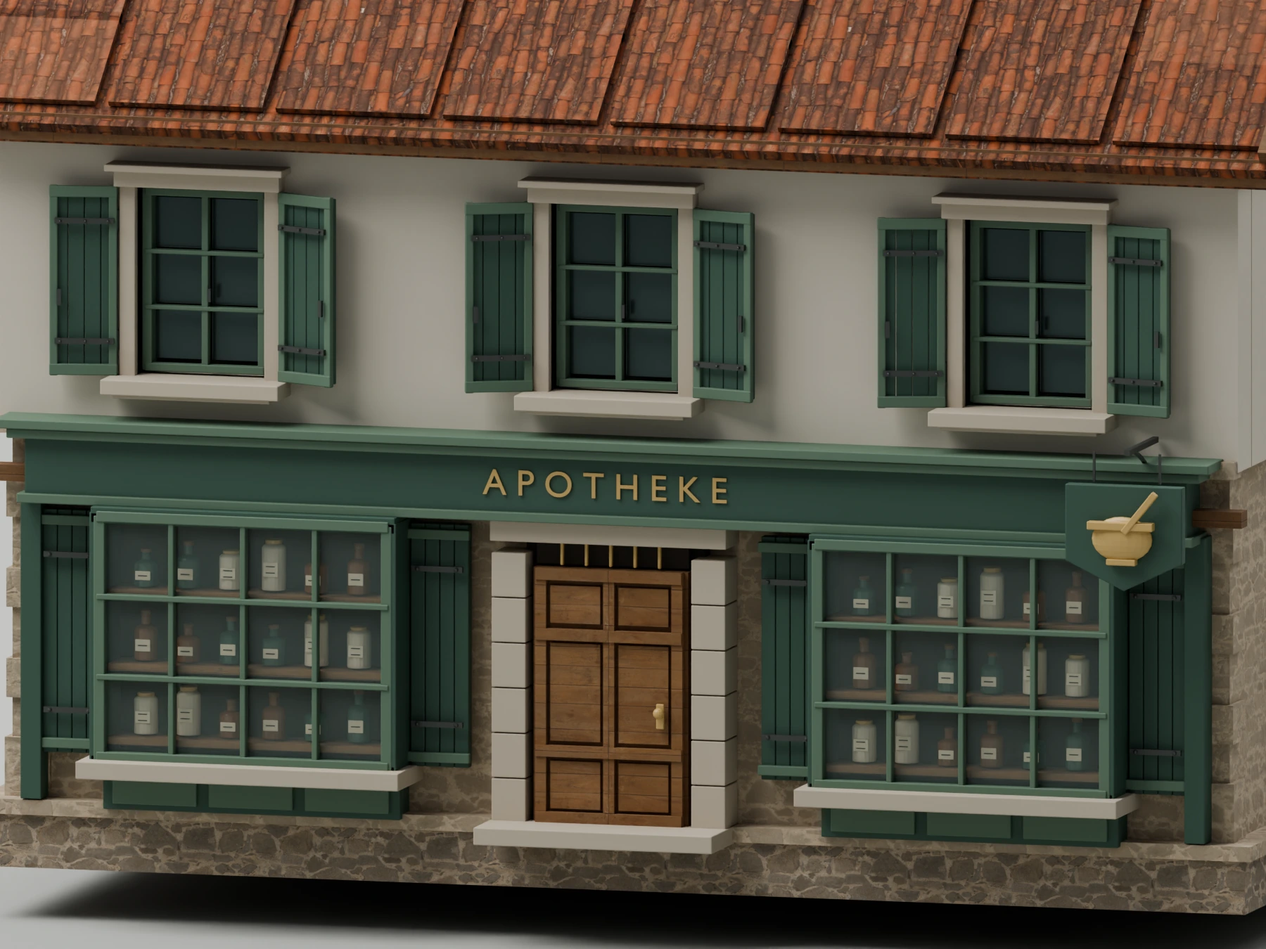
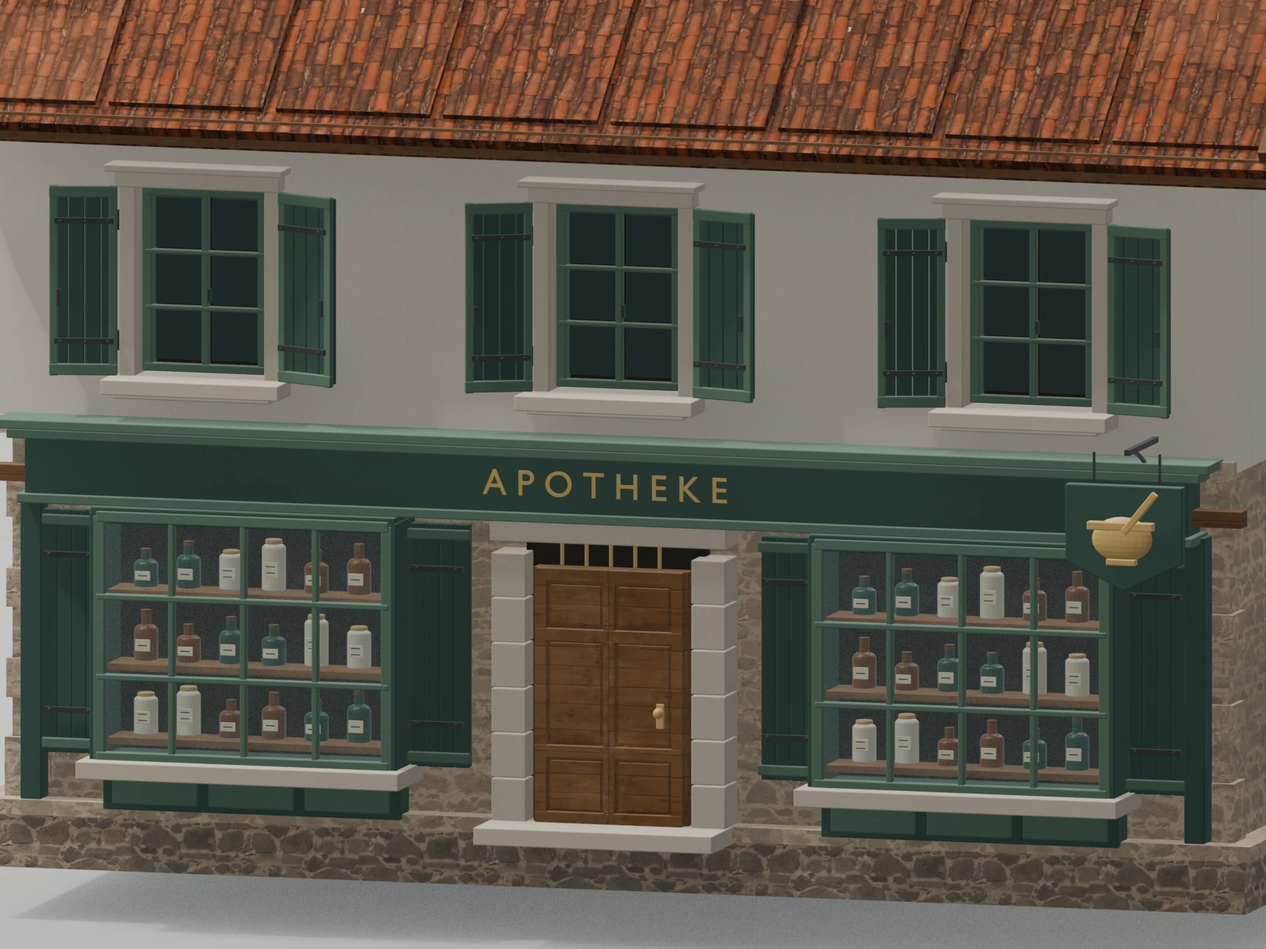
Upgrade windows across the town building showcase

diff --git a/site/model-closeups.html b/site/model-closeups.html
@@ -330,33 +330,33 @@ footer a{color:var(--gold)}
   </a>
   <div class="caption"><div class="eyebrow">Town interiors</div><h3>Warehouse Ground</h3><p>Close-up studio render of the exported Warehouse Ground model.</p><span class="credit">Big Sim model · see CREDITS.md for source notes</span><code class="source">art/city_buildings/interiors/warehouse_ground.glb</code></div>
 </article><article class="card">
-  <a class="image" href="images/gallery/model-closeup-art-city-buildings-models-apothecary.webp?v=apothecary-upper-20261024" aria-label="Open full size image: Apothecary">
-    <img src="images/gallery/model-closeup-art-city-buildings-models-apothecary.webp?v=apothecary-upper-20261024" alt="Apothecary — Close-up studio render of the exported Apothecary model." loading="lazy">
+  <a class="image" href="images/gallery/model-closeup-art-city-buildings-models-apothecary.webp?v=town-windows-20261024" aria-label="Open full size image: Apothecary">
+    <img src="images/gallery/model-closeup-art-city-buildings-models-apothecary.webp?v=town-windows-20261024" alt="Apothecary — Close-up studio render of the exported Apothecary model." loading="lazy">
   </a>
   <div class="caption"><div class="eyebrow">Town exteriors</div><h3>Apothecary</h3><p>Close-up studio render of the exported Apothecary model.</p><span class="credit">Big Sim model · see CREDITS.md for source notes</span><code class="source">art/city_buildings/models/apothecary.glb</code></div>
 </article><article class="card">
-  <a class="image" href="images/gallery/model-closeup-art-city-buildings-models-bakers-shop.webp" aria-label="Open full size image: Bakers Shop">
-    <img src="images/gallery/model-closeup-art-city-buildings-models-bakers-shop.webp" alt="Bakers Shop — Close-up studio render of the exported Bakers Shop model." loading="lazy">
+  <a class="image" href="images/gallery/model-closeup-art-city-buildings-models-bakers-shop.webp?v=town-windows-20261024" aria-label="Open full size image: Bakers Shop">
+    <img src="images/gallery/model-closeup-art-city-buildings-models-bakers-shop.webp?v=town-windows-20261024" alt="Bakers Shop — Close-up studio render of the exported Bakers Shop model." loading="lazy">
   </a>
   <div class="caption"><div class="eyebrow">Town exteriors</div><h3>Bakers Shop</h3><p>Close-up studio render of the exported Bakers Shop model.</p><span class="credit">Big Sim model · see CREDITS.md for source notes</span><code class="source">art/city_buildings/models/bakers_shop.glb</code></div>
 </article><article class="card">
-  <a class="image" href="images/gallery/model-closeup-art-city-buildings-models-chapel.webp" aria-label="Open full size image: Chapel">
-    <img src="images/gallery/model-closeup-art-city-buildings-models-chapel.webp" alt="Chapel — Close-up studio render of the exported Chapel model." loading="lazy">
+  <a class="image" href="images/gallery/model-closeup-art-city-buildings-models-chapel.webp?v=town-windows-20261024" aria-label="Open full size image: Chapel">
+    <img src="images/gallery/model-closeup-art-city-buildings-models-chapel.webp?v=town-windows-20261024" alt="Chapel — Close-up studio render of the exported Chapel model." loading="lazy">
   </a>
   <div class="caption"><div class="eyebrow">Town exteriors</div><h3>Chapel</h3><p>Close-up studio render of the exported Chapel model.</p><span class="credit">Big Sim model · see CREDITS.md for source notes</span><code class="source">art/city_buildings/models/chapel.glb</code></div>
 </article><article class="card">
-  <a class="image" href="images/gallery/model-closeup-art-city-buildings-models-cloth-merchants-house.webp" aria-label="Open full size image: Cloth Merchants House">
-    <img src="images/gallery/model-closeup-art-city-buildings-models-cloth-merchants-house.webp" alt="Cloth Merchants House — Close-up studio render of the exported Cloth Merchants House model." loading="lazy">
+  <a class="image" href="images/gallery/model-closeup-art-city-buildings-models-cloth-merchants-house.webp?v=town-windows-20261024" aria-label="Open full size image: Cloth Merchants House">
+    <img src="images/gallery/model-closeup-art-city-buildings-models-cloth-merchants-house.webp?v=town-windows-20261024" alt="Cloth Merchants House — Close-up studio render of the exported Cloth Merchants House model." loading="lazy">
   </a>
   <div class="caption"><div class="eyebrow">Town exteriors</div><h3>Cloth Merchants House</h3><p>Close-up studio render of the exported Cloth Merchants House model.</p><span class="credit">Big Sim model · see CREDITS.md for source notes</span><code class="source">art/city_buildings/models/cloth_merchants_house.glb</code></div>
 </article><article class="card">
-  <a class="image" href="images/gallery/model-closeup-art-city-buildings-models-cottage.webp" aria-label="Open full size image: Cottage">
-    <img src="images/gallery/model-closeup-art-city-buildings-models-cottage.webp" alt="Cottage — Close-up studio render of the exported Cottage model." loading="lazy">
+  <a class="image" href="images/gallery/model-closeup-art-city-buildings-models-cottage.webp?v=town-windows-20261024" aria-label="Open full size image: Cottage">
+    <img src="images/gallery/model-closeup-art-city-buildings-models-cottage.webp?v=town-windows-20261024" alt="Cottage — Close-up studio render of the exported Cottage model." loading="lazy">
   </a>
   <div class="caption"><div class="eyebrow">Town exteriors</div><h3>Cottage</h3><p>Close-up studio render of the exported Cottage model.</p><span class="credit">Big Sim model · see CREDITS.md for source notes</span><code class="source">art/city_buildings/models/cottage.glb</code></div>
 </article><article class="card">
-  <a class="image" href="images/gallery/model-closeup-art-city-buildings-models-granary.webp" aria-label="Open full size image: Granary">
-    <img src="images/gallery/model-closeup-art-city-buildings-models-granary.webp" alt="Granary — Close-up studio render of the exported Granary model." loading="lazy">
+  <a class="image" href="images/gallery/model-closeup-art-city-buildings-models-granary.webp?v=town-windows-20261024" aria-label="Open full size image: Granary">
+    <img src="images/gallery/model-closeup-art-city-buildings-models-granary.webp?v=town-windows-20261024" alt="Granary — Close-up studio render of the exported Granary model." loading="lazy">
   </a>
   <div class="caption"><div class="eyebrow">Town exteriors</div><h3>Granary</h3><p>Close-up studio render of the exported Granary model.</p><span class="credit">Big Sim model · see CREDITS.md for source notes</span><code class="source">art/city_buildings/models/granary.glb</code></div>
 </article><article class="card">
@@ -365,13 +365,13 @@ footer a{color:var(--gold)}
   </a>
   <div class="caption"><div class="eyebrow">Town exteriors</div><h3>Hercules Fountain</h3><p>Close-up studio render of the exported Hercules Fountain model.</p><span class="credit">Big Sim model · see CREDITS.md for source notes</span><code class="source">art/city_buildings/models/hercules_fountain.glb</code></div>
 </article><article class="card">
-  <a class="image" href="images/gallery/model-closeup-art-city-buildings-models-inn.webp" aria-label="Open full size image: Inn">
-    <img src="images/gallery/model-closeup-art-city-buildings-models-inn.webp" alt="Inn — Close-up studio render of the exported Inn model." loading="lazy">
+  <a class="image" href="images/gallery/model-closeup-art-city-buildings-models-inn.webp?v=town-windows-20261024" aria-label="Open full size image: Inn">
+    <img src="images/gallery/model-closeup-art-city-buildings-models-inn.webp?v=town-windows-20261024" alt="Inn — Close-up studio render of the exported Inn model." loading="lazy">
   </a>
   <div class="caption"><div class="eyebrow">Town exteriors</div><h3>Inn</h3><p>Close-up studio render of the exported Inn model.</p><span class="credit">Big Sim model · see CREDITS.md for source notes</span><code class="source">art/city_buildings/models/inn.glb</code></div>
 </article><article class="card">
-  <a class="image" href="images/gallery/model-closeup-art-city-buildings-models-merchant-house.webp" aria-label="Open full size image: Merchant House">
-    <img src="images/gallery/model-closeup-art-city-buildings-models-merchant-house.webp" alt="Merchant House — Close-up studio render of the exported Merchant House model." loading="lazy">
+  <a class="image" href="images/gallery/model-closeup-art-city-buildings-models-merchant-house.webp?v=town-windows-20261024" aria-label="Open full size image: Merchant House">
+    <img src="images/gallery/model-closeup-art-city-buildings-models-merchant-house.webp?v=town-windows-20261024" alt="Merchant House — Close-up studio render of the exported Merchant House model." loading="lazy">
   </a>
   <div class="caption"><div class="eyebrow">Town exteriors</div><h3>Merchant House</h3><p>Close-up studio render of the exported Merchant House model.</p><span class="credit">Big Sim model · see CREDITS.md for source notes</span><code class="source">art/city_buildings/models/merchant_house.glb</code></div>
 </article><article class="card">
@@ -380,33 +380,33 @@ footer a{color:var(--gold)}
   </a>
   <div class="caption"><div class="eyebrow">Town exteriors</div><h3>Oil Street Lantern</h3><p>Close-up studio render of the exported Oil Street Lantern model.</p><span class="credit">Big Sim model · see CREDITS.md for source notes</span><code class="source">art/city_buildings/models/oil_street_lantern.glb</code></div>
 </article><article class="card">
-  <a class="image" href="images/gallery/model-closeup-art-city-buildings-models-row-house.webp" aria-label="Open full size image: Row House">
-    <img src="images/gallery/model-closeup-art-city-buildings-models-row-house.webp" alt="Row House — Close-up studio render of the exported Row House model." loading="lazy">
+  <a class="image" href="images/gallery/model-closeup-art-city-buildings-models-row-house.webp?v=town-windows-20261024" aria-label="Open full size image: Row House">
+    <img src="images/gallery/model-closeup-art-city-buildings-models-row-house.webp?v=town-windows-20261024" alt="Row House — Close-up studio render of the exported Row House model." loading="lazy">
   </a>
   <div class="caption"><div class="eyebrow">Town exteriors</div><h3>Row House</h3><p>Close-up studio render of the exported Row House model.</p><span class="credit">Big Sim model · see CREDITS.md for source notes</span><code class="source">art/city_buildings/models/row_house.glb</code></div>
 </article><article class="card">
-  <a class="image" href="images/gallery/model-closeup-art-city-buildings-models-row-house-west-variant.webp" aria-label="Open full size image: Row House West Variant">
-    <img src="images/gallery/model-closeup-art-city-buildings-models-row-house-west-variant.webp" alt="Row House West Variant — Close-up studio render of the exported Row House West Variant model." loading="lazy">
+  <a class="image" href="images/gallery/model-closeup-art-city-buildings-models-row-house-west-variant.webp?v=town-windows-20261024" aria-label="Open full size image: Row House West Variant">
+    <img src="images/gallery/model-closeup-art-city-buildings-models-row-house-west-variant.webp?v=town-windows-20261024" alt="Row House West Variant — Close-up studio render of the exported Row House West Variant model." loading="lazy">
   </a>
   <div class="caption"><div class="eyebrow">Town exteriors</div><h3>Row House West Variant</h3><p>Close-up studio render of the exported Row House West Variant model.</p><span class="credit">Big Sim model · see CREDITS.md for source notes</span><code class="source">art/city_buildings/models/row_house_west_variant.glb</code></div>
 </article><article class="card">
-  <a class="image" href="images/gallery/model-closeup-art-city-buildings-models-smithy.webp" aria-label="Open full size image: Smithy">
-    <img src="images/gallery/model-closeup-art-city-buildings-models-smithy.webp" alt="Smithy — Close-up studio render of the exported Smithy model." loading="lazy">
+  <a class="image" href="images/gallery/model-closeup-art-city-buildings-models-smithy.webp?v=town-windows-20261024" aria-label="Open full size image: Smithy">
+    <img src="images/gallery/model-closeup-art-city-buildings-models-smithy.webp?v=town-windows-20261024" alt="Smithy — Close-up studio render of the exported Smithy model." loading="lazy">
   </a>
   <div class="caption"><div class="eyebrow">Town exteriors</div><h3>Smithy</h3><p>Close-up studio render of the exported Smithy model.</p><span class="credit">Big Sim model · see CREDITS.md for source notes</span><code class="source">art/city_buildings/models/smithy.glb</code></div>
 </article><article class="card">
-  <a class="image" href="images/gallery/model-closeup-art-city-buildings-models-stable.webp" aria-label="Open full size image: Stable">
-    <img src="images/gallery/model-closeup-art-city-buildings-models-stable.webp" alt="Stable — Close-up studio render of the exported Stable model." loading="lazy">
+  <a class="image" href="images/gallery/model-closeup-art-city-buildings-models-stable.webp?v=town-windows-20261024" aria-label="Open full size image: Stable">
+    <img src="images/gallery/model-closeup-art-city-buildings-models-stable.webp?v=town-windows-20261024" alt="Stable — Close-up studio render of the exported Stable model." loading="lazy">
   </a>
   <div class="caption"><div class="eyebrow">Town exteriors</div><h3>Stable</h3><p>Close-up studio render of the exported Stable model.</p><span class="credit">Big Sim model · see CREDITS.md for source notes</span><code class="source">art/city_buildings/models/stable.glb</code></div>
 </article><article class="card">
-  <a class="image" href="images/gallery/model-closeup-art-city-buildings-models-town-hall.webp" aria-label="Open full size image: Town Hall">
-    <img src="images/gallery/model-closeup-art-city-buildings-models-town-hall.webp" alt="Town Hall — Close-up studio render of the exported Town Hall model." loading="lazy">
+  <a class="image" href="images/gallery/model-closeup-art-city-buildings-models-town-hall.webp?v=town-windows-20261024" aria-label="Open full size image: Town Hall">
+    <img src="images/gallery/model-closeup-art-city-buildings-models-town-hall.webp?v=town-windows-20261024" alt="Town Hall — Close-up studio render of the exported Town Hall model." loading="lazy">
   </a>
   <div class="caption"><div class="eyebrow">Town exteriors</div><h3>Town Hall</h3><p>Close-up studio render of the exported Town Hall model.</p><span class="credit">Big Sim model · see CREDITS.md for source notes</span><code class="source">art/city_buildings/models/town_hall.glb</code></div>
 </article><article class="card">
-  <a class="image" href="images/gallery/model-closeup-art-city-buildings-models-warehouse.webp" aria-label="Open full size image: Warehouse">
-    <img src="images/gallery/model-closeup-art-city-buildings-models-warehouse.webp" alt="Warehouse — Close-up studio render of the exported Warehouse model." loading="lazy">
+  <a class="image" href="images/gallery/model-closeup-art-city-buildings-models-warehouse.webp?v=town-windows-20261024" aria-label="Open full size image: Warehouse">
+    <img src="images/gallery/model-closeup-art-city-buildings-models-warehouse.webp?v=town-windows-20261024" alt="Warehouse — Close-up studio render of the exported Warehouse model." loading="lazy">
   </a>
   <div class="caption"><div class="eyebrow">Town exteriors</div><h3>Warehouse</h3><p>Close-up studio render of the exported Warehouse model.</p><span class="credit">Big Sim model · see CREDITS.md for source notes</span><code class="source">art/city_buildings/models/warehouse.glb</code></div>
 </article><article class="card">

diff --git a/site/index.html b/site/index.html
@@ -328,26 +328,26 @@ footer{padding:18px 0 30px;border-top:1px solid var(--line);color:#87918c;font-s
   </a>
   <div class="caption"><div class="eyebrow">World</div><h3>Hercules bronze-faced shield</h3><p>Dark hammered bronze facing, flat edge binding, flush fasteners, and a shallow central boss</p><span class="credit">Big Sim original · Greek aspis study</span></div>
 </article><article class="card" data-category="World" data-detail="false">
-  <a class="image" href="images/gallery/period-town-buildings.webp" aria-label="Open full size image: Early-19th-century town buildings">
-    <img src="images/gallery/period-town-buildings.webp" alt="Early-19th-century town buildings — Fourteen reusable plaster, masonry, timber, and tiled-roof models used across 22 city placements" loading="lazy">
+  <a class="image" href="images/gallery/period-town-buildings.webp?v=town-windows-20261024" aria-label="Open full size image: Early-19th-century town buildings">
+    <img src="images/gallery/period-town-buildings.webp?v=town-windows-20261024" alt="Early-19th-century town buildings — Fourteen town buildings with recessed glazing, fitted frames, projecting sills and modeled shutters" loading="lazy">
     <span class="number">40</span>
   </a>
-  <div class="caption"><div class="eyebrow">World</div><h3>Early-19th-century town buildings</h3><p>Fourteen reusable plaster, masonry, timber, and tiled-roof models used across 22 city placements</p><span class="credit">Big Sim original building models</span></div>
-</article><article class="card" data-category="World" data-detail="true">
-  <a class="image" href="images/gallery/apothecary-shopfront-detail.webp?v=apothecary-upper-20261024" aria-label="Open full size image: Apothecary shopfront">
-    <img src="images/gallery/apothecary-shopfront-detail.webp?v=apothecary-upper-20261024" alt="Apothecary shopfront — Stocked glazed display cases, painted timber joinery, an oak doorway, gilded APOTHEKE lettering, and a hanging pharmacy shield" loading="lazy">
+  <div class="caption"><div class="eyebrow">World</div><h3>Early-19th-century town buildings</h3><p>Fourteen town buildings with recessed glazing, fitted frames, projecting sills and modeled shutters</p><span class="credit">Big Sim original building models</span></div>
+</article><article class="card" data-category="World" data-detail="true"><a class="image" href="images/gallery/row_house-windows-detail.webp?v=town-windows-20261024" aria-label="Open full size image: Town-house window construction"><img src="images/gallery/row_house-windows-detail.webp?v=town-windows-20261024" alt="Town-house window construction — Recessed six-pane casements, projecting stone sills, and boarded shutters with iron hinges" loading="lazy"></a><div class="caption"><div class="eyebrow">World</div><h3>Town-house window construction</h3><p>Recessed six-pane casements, projecting stone sills, and boarded shutters with iron hinges</p><span class="credit">Big Sim original building models</span></div></article><article class="card" data-category="World" data-detail="true"><a class="image" href="images/gallery/cloth_merchants_house-windows-detail.webp?v=town-windows-20261024" aria-label="Open full size image: Cloth merchant windows"><img src="images/gallery/cloth_merchants_house-windows-detail.webp?v=town-windows-20261024" alt="Cloth merchant windows — Blue upper-storey shutters and fitted glazing, with rebuilt ground-floor shop windows" loading="lazy"></a><div class="caption"><div class="eyebrow">World</div><h3>Cloth merchant windows</h3><p>Blue upper-storey shutters and fitted glazing, with rebuilt ground-floor shop windows</p><span class="credit">Big Sim original building models</span></div></article><article class="card" data-category="World" data-detail="true">
+  <a class="image" href="images/gallery/apothecary-shopfront-detail.webp?v=town-windows-20261024" aria-label="Open full size image: Apothecary shopfront">
+    <img src="images/gallery/apothecary-shopfront-detail.webp?v=town-windows-20261024" alt="Apothecary shopfront — Stocked glazed display cases, painted timber joinery, an oak doorway, gilded APOTHEKE lettering, and a hanging pharmacy shield" loading="lazy">
     <span class="number">41</span>
   </a>
   <div class="caption"><div class="eyebrow">World</div><h3>Apothecary shopfront</h3><p>Stocked glazed display cases, painted timber joinery, an oak doorway, gilded APOTHEKE lettering, and a hanging pharmacy shield</p><span class="credit">Big Sim original building detail</span></div>
 </article><article class="card" data-category="World" data-detail="true">
-  <a class="image" href="images/gallery/inn-entry-detail.webp" aria-label="Open full size image: Inn entrance and sign">
-    <img src="images/gallery/inn-entry-detail.webp" alt="Inn entrance and sign — Covered entry, masonry surround, and projecting inn sign at close range" loading="lazy">
+  <a class="image" href="images/gallery/inn-entry-detail.webp?v=town-windows-20261024" aria-label="Open full size image: Inn entrance and sign">
+    <img src="images/gallery/inn-entry-detail.webp?v=town-windows-20261024" alt="Inn entrance and sign — Covered entry, masonry surround, and projecting inn sign at close range" loading="lazy">
     <span class="number">42</span>
   </a>
   <div class="caption"><div class="eyebrow">World</div><h3>Inn entrance and sign</h3><p>Covered entry, masonry surround, and projecting inn sign at close range</p><span class="credit">Big Sim original building detail</span></div>
 </article><article class="card" data-category="World" data-detail="true">
-  <a class="image" href="images/gallery/smithy-work-bay-detail.webp" aria-label="Open full size image: Smithy work bay">
-    <img src="images/gallery/smithy-work-bay-detail.webp" alt="Smithy work bay — Wide plank work doors, stone lower walls, and forge-side timber details" loading="lazy">
+  <a class="image" href="images/gallery/smithy-work-bay-detail.webp?v=town-windows-20261024" aria-label="Open full size image: Smithy work bay">
+    <img src="images/gallery/smithy-work-bay-detail.webp?v=town-windows-20261024" alt="Smithy work bay — Wide plank work doors, stone lower walls, and forge-side timber details" loading="lazy">
     <span class="number">43</span>
   </a>
   <div class="caption"><div class="eyebrow">World</div><h3>Smithy work bay</h3><p>Wide plank work doors, stone lower walls, and forge-side timber details</p><span class="credit">Big Sim original building detail</span></div>
@@ -418,8 +418,8 @@ footer{padding:18px 0 30px;border-top:1px solid var(--line);color:#87918c;font-s
   </a>
   <div class="caption"><div class="eyebrow">World</div><h3>Chapel bellcote</h3><p>Open arched bell stage beneath a compact tiled cap</p><span class="credit">Big Sim original building detail</span></div>
 </article><article class="card" data-category="World" data-detail="true">
-  <a class="image" href="images/gallery/cottage-roof-detail.webp" aria-label="Open full size image: Cottage roof and joinery">
-    <img src="images/gallery/cottage-roof-detail.webp" alt="Cottage roof and joinery — Close view of roof tiles, chimney, shutters, and timber details" loading="lazy">
+  <a class="image" href="images/gallery/cottage-roof-detail.webp?v=town-windows-20261024" aria-label="Open full size image: Cottage roof and joinery">
+    <img src="images/gallery/cottage-roof-detail.webp?v=town-windows-20261024" alt="Cottage roof and joinery — Close view of roof tiles, chimney, shutters, and timber details" loading="lazy">
     <span class="number">55</span>
   </a>
   <div class="caption"><div class="eyebrow">World</div><h3>Cottage roof and joinery</h3><p>Close view of roof tiles, chimney, shutters, and timber details</p><span class="credit">Big Sim original building detail</span></div>

diff --git a/site/world-battlefield.html b/site/world-battlefield.html
@@ -130,23 +130,23 @@ footer a{color:var(--gold)}
   </a>
   <div class="caption"><div class="eyebrow">World</div><h3>Hercules bronze-faced shield</h3><p>Dark hammered bronze facing, flat edge binding, flush fasteners, and a shallow central boss</p><span class="credit">Big Sim original · Greek aspis study</span></div>
 </article><article class="card">
-  <a class="image" href="images/gallery/period-town-buildings.webp" aria-label="Open full size image: Early-19th-century town buildings">
-    <img src="images/gallery/period-town-buildings.webp" alt="Early-19th-century town buildings — Fourteen reusable plaster, masonry, timber, and tiled-roof models used across 22 city placements" loading="lazy">
+  <a class="image" href="images/gallery/period-town-buildings.webp?v=town-windows-20261024" aria-label="Open full size image: Early-19th-century town buildings">
+    <img src="images/gallery/period-town-buildings.webp?v=town-windows-20261024" alt="Early-19th-century town buildings — Fourteen town buildings with recessed glazing, fitted frames, projecting sills and modeled shutters" loading="lazy">
   </a>
-  <div class="caption"><div class="eyebrow">World</div><h3>Early-19th-century town buildings</h3><p>Fourteen reusable plaster, masonry, timber, and tiled-roof models used across 22 city placements</p><span class="credit">Big Sim original building models</span></div>
-</article><article class="card">
-  <a class="image" href="images/gallery/apothecary-shopfront-detail.webp?v=apothecary-upper-20261024" aria-label="Open full size image: Apothecary shopfront">
-    <img src="images/gallery/apothecary-shopfront-detail.webp?v=apothecary-upper-20261024" alt="Apothecary shopfront — Stocked glazed display cases, painted timber joinery, an oak doorway, gilded APOTHEKE lettering, and a hanging pharmacy shield" loading="lazy">
+  <div class="caption"><div class="eyebrow">World</div><h3>Early-19th-century town buildings</h3><p>Fourteen town buildings with recessed glazing, fitted frames, projecting sills and modeled shutters</p><span class="credit">Big Sim original building models</span></div>
+</article><article class="card" data-category="World" data-detail="true"><a class="image" href="images/gallery/row_house-windows-detail.webp?v=town-windows-20261024" aria-label="Open full size image: Town-house window construction"><img src="images/gallery/row_house-windows-detail.webp?v=town-windows-20261024" alt="Town-house window construction — Recessed six-pane casements, projecting stone sills, and boarded shutters with iron hinges" loading="lazy"></a><div class="caption"><div class="eyebrow">World</div><h3>Town-house window construction</h3><p>Recessed six-pane casements, projecting stone sills, and boarded shutters with iron hinges</p><span class="credit">Big Sim original building models</span></div></article><article class="card" data-category="World" data-detail="true"><a class="image" href="images/gallery/cloth_merchants_house-windows-detail.webp?v=town-windows-20261024" aria-label="Open full size image: Cloth merchant windows"><img src="images/gallery/cloth_merchants_house-windows-detail.webp?v=town-windows-20261024" alt="Cloth merchant windows — Blue upper-storey shutters and fitted glazing, with rebuilt ground-floor shop windows" loading="lazy"></a><div class="caption"><div class="eyebrow">World</div><h3>Cloth merchant windows</h3><p>Blue upper-storey shutters and fitted glazing, with rebuilt ground-floor shop windows</p><span class="credit">Big Sim original building models</span></div></article><article class="card">
+  <a class="image" href="images/gallery/apothecary-shopfront-detail.webp?v=town-windows-20261024" aria-label="Open full size image: Apothecary shopfront">
+    <img src="images/gallery/apothecary-shopfront-detail.webp?v=town-windows-20261024" alt="Apothecary shopfront — Stocked glazed display cases, painted timber joinery, an oak doorway, gilded APOTHEKE lettering, and a hanging pharmacy shield" loading="lazy">
   </a>
   <div class="caption"><div class="eyebrow">World</div><h3>Apothecary shopfront</h3><p>Stocked glazed display cases, painted timber joinery, an oak doorway, gilded APOTHEKE lettering, and a hanging pharmacy shield</p><span class="credit">Big Sim original building detail</span></div>
 </article><article class="card">
-  <a class="image" href="images/gallery/inn-entry-detail.webp" aria-label="Open full size image: Inn entrance and sign">
-    <img src="images/gallery/inn-entry-detail.webp" alt="Inn entrance and sign — Covered entry, masonry surround, and projecting inn sign at close range" loading="lazy">
+  <a class="image" href="images/gallery/inn-entry-detail.webp?v=town-windows-20261024" aria-label="Open full size image: Inn entrance and sign">
+    <img src="images/gallery/inn-entry-detail.webp?v=town-windows-20261024" alt="Inn entrance and sign — Covered entry, masonry surround, and projecting inn sign at close range" loading="lazy">
   </a>
   <div class="caption"><div class="eyebrow">World</div><h3>Inn entrance and sign</h3><p>Covered entry, masonry surround, and projecting inn sign at close range</p><span class="credit">Big Sim original building detail</span></div>
 </article><article class="card">
-  <a class="image" href="images/gallery/smithy-work-bay-detail.webp" aria-label="Open full size image: Smithy work bay">
-    <img src="images/gallery/smithy-work-bay-detail.webp" alt="Smithy work bay — Wide plank work doors, stone lower walls, and forge-side timber details" loading="lazy">
+  <a class="image" href="images/gallery/smithy-work-bay-detail.webp?v=town-windows-20261024" aria-label="Open full size image: Smithy work bay">
+    <img src="images/gallery/smithy-work-bay-detail.webp?v=town-windows-20261024" alt="Smithy work bay — Wide plank work doors, stone lower walls, and forge-side timber details" loading="lazy">
   </a>
   <div class="caption"><div class="eyebrow">World</div><h3>Smithy work bay</h3><p>Wide plank work doors, stone lower walls, and forge-side timber details</p><span class="credit">Big Sim original building detail</span></div>
 </article><article class="card">
@@ -205,8 +205,8 @@ footer a{color:var(--gold)}
   </a>
   <div class="caption"><div class="eyebrow">World</div><h3>Chapel bellcote</h3><p>Open arched bell stage beneath a compact tiled cap</p><span class="credit">Big Sim original building detail</span></div>
 </article><article class="card">
-  <a class="image" href="images/gallery/cottage-roof-detail.webp" aria-label="Open full size image: Cottage roof and joinery">
-    <img src="images/gallery/cottage-roof-detail.webp" alt="Cottage roof and joinery — Close view of roof tiles, chimney, shutters, and timber details" loading="lazy">
+  <a class="image" href="images/gallery/cottage-roof-detail.webp?v=town-windows-20261024" aria-label="Open full size image: Cottage roof and joinery">
+    <img src="images/gallery/cottage-roof-detail.webp?v=town-windows-20261024" alt="Cottage roof and joinery — Close view of roof tiles, chimney, shutters, and timber details" loading="lazy">
   </a>
   <div class="caption"><div class="eyebrow">World</div><h3>Cottage roof and joinery</h3><p>Close view of roof tiles, chimney, shutters, and timber details</p><span class="credit">Big Sim original building detail</span></div>
 </article><article class="card">
